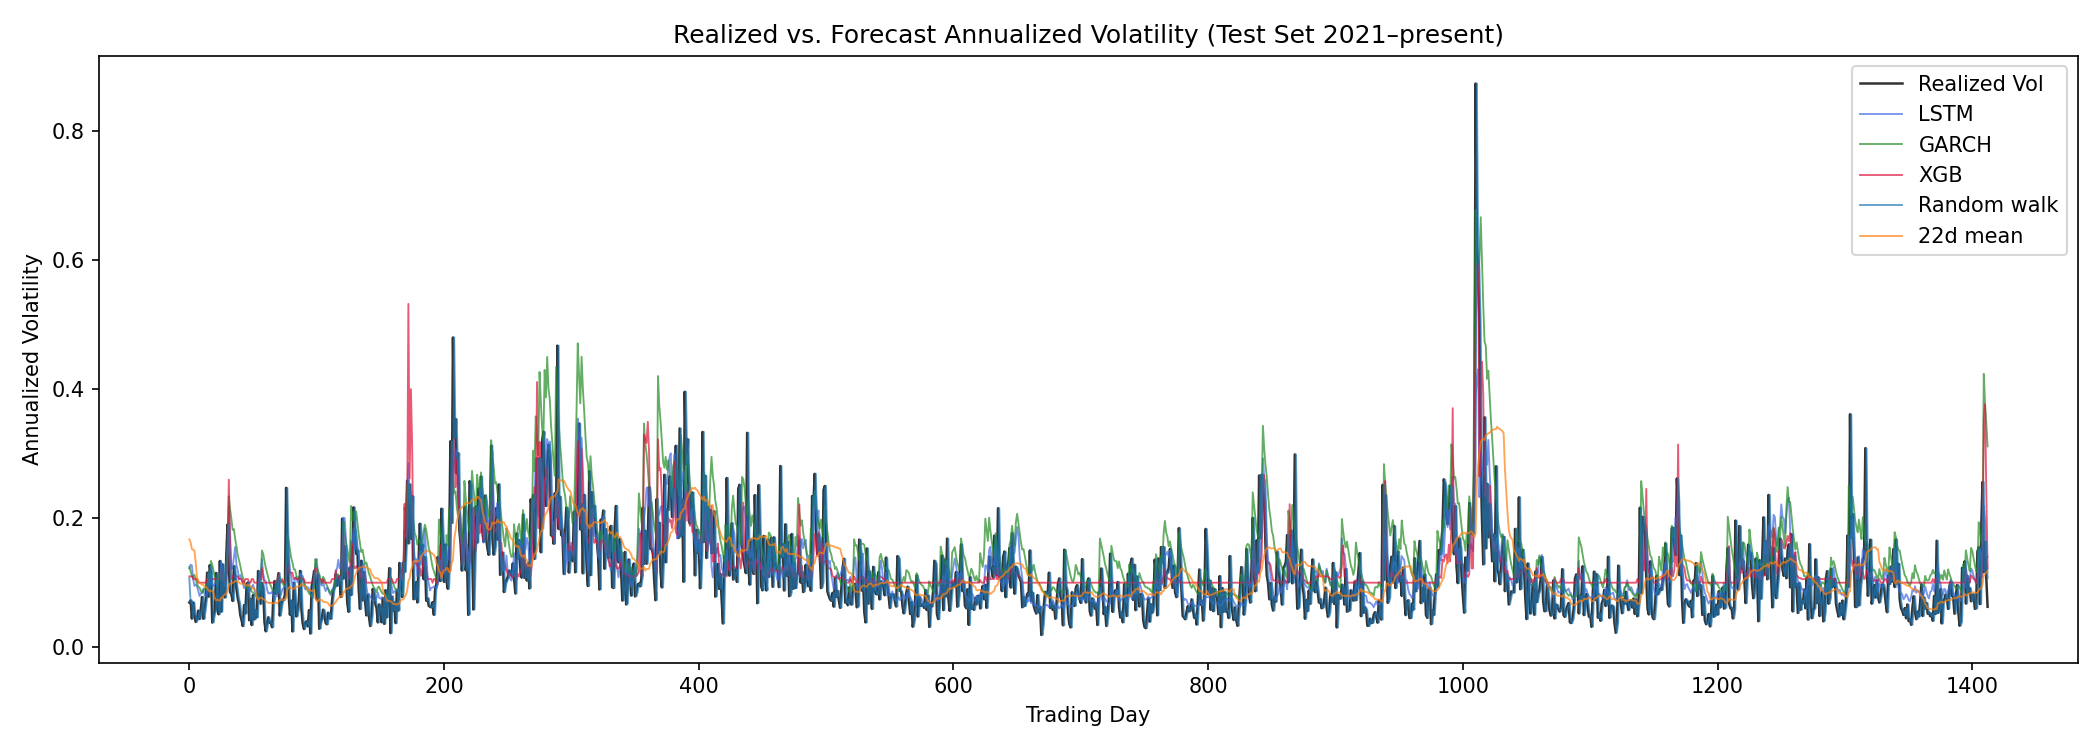
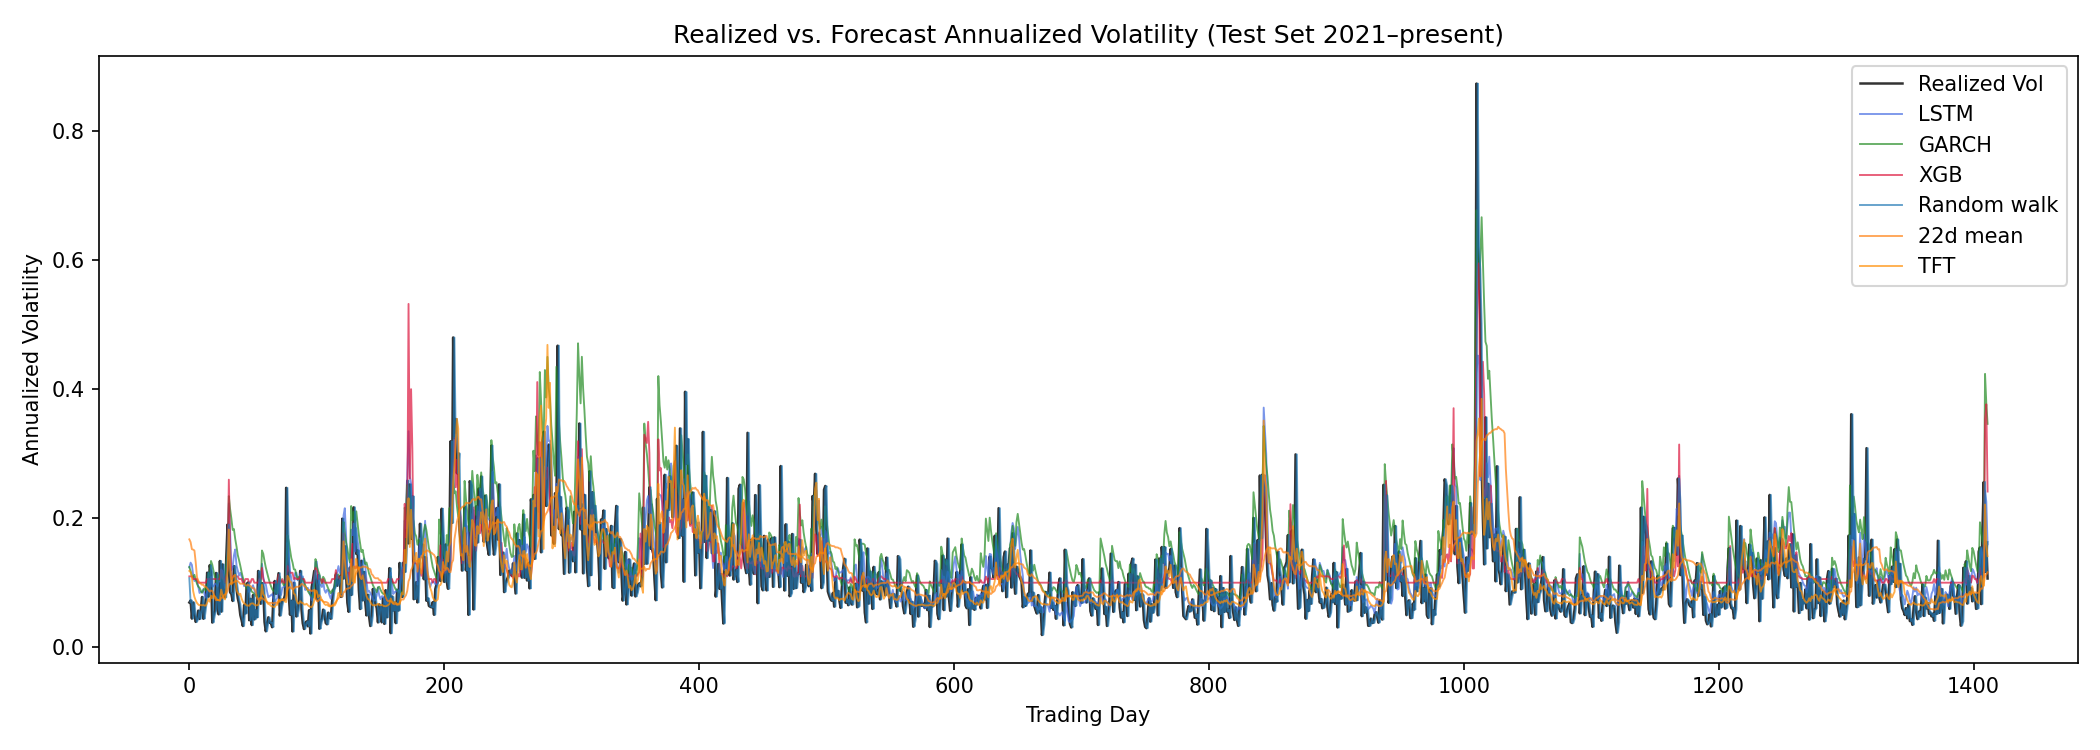
Regenerate results with the TFT and five LSTM seeds
LSTM QLIKE 0.3092 (seed 0), TFT 0.3347 with the lowest RMSE, XGB 0.3639.
Across five seeds the LSTM ranges from 0.3013 to 0.3091 and every seed
beats XGB with p below 0.001. The earlier 0.3061 came from an unstable
setup and is replaced.

Claude-Session: https://claude.ai/code/session_013eQQvXsKQ5ZxUZGJ1ycCVm

diff --git a/README.md b/README.md
@@ -60,68 +60,49 @@ All features are lagged 1 day. Target: next-day Garman-Klass daily variance.
 
 ## Test-Set Results
 
-From `python -m training.train_lstm` then `python -m evaluation.evaluate`, run on 2026-11-11 (CPU, one training run, early stopping at epoch 90). Test set: 1,413 common trading days, 2021-03-30 to 2026-11-11, after the 2010 to 2018 training and 2019 to 2020 validation periods. Target: the Garman-Klass variance of day t, forecast from information through t-1. Lower is better. Source files: `outputs/model_comparison.csv`, `outputs/regime_performance.csv`, `outputs/training_log_lstm.csv`.
+From `python -m training.run_all` then `python -m evaluation.evaluate outputs/checkpoints/tft_best.ckpt`, run on 2026-11-11 on CPU. Both networks use seed 0; the LSTM early-stopped at epoch 29 and the TFT at epoch 36. Test set: 1,412 common trading days, 2021-03-30 to 2026-11-10, after the 2010 to 2018 training and 2019 to 2020 validation periods. Target: the Garman-Klass variance of day t, forecast from information through t-1. Lower is better. Source files: `outputs/model_comparison.csv`, `outputs/regime_performance.csv`, `outputs/training_log_lstm.csv`.
 
 The random walk (yesterday's Garman-Klass variance) and the 22-day mean are naive benchmarks on the same information set. DM is the Diebold-Mariano statistic on QLIKE losses; negative means the row's model has lower loss than the comparison model.
 
 | Model | QLIKE | RMSE (log-vol) | DM vs GARCH | p | DM vs random walk | p |
 |-------|-------|----------------|-------------|---|-------------------|---|
-| LSTM | **0.3061** | **0.4253** | -9.70 | 0.0000 | -8.10 | 0.0000 |
-| GARCH | 0.4097 | 0.5584 | 0.00 | 1.0000 | -4.97 | 0.0000 |
-| XGB | 0.3640 | 0.4824 | -4.01 | 0.0001 | -6.24 | 0.0000 |
-| Random walk | 0.6356 | 0.4774 | 4.97 | 0.0000 | 0.00 | 1.0000 |
-| 22d mean | 0.4399 | 0.4834 | 1.23 | 0.2186 | -4.55 | 0.0000 |
+| LSTM | **0.3092** | 0.4251 | -8.08 | 0.0000 | -8.01 | 0.0000 |
+| TFT | 0.3347 | **0.3943** | -4.06 | 0.0001 | -7.73 | 0.0000 |
+| XGB | 0.3639 | 0.4822 | -3.92 | 0.0001 | -6.25 | 0.0000 |
+| GARCH | 0.4084 | 0.5570 | 0.00 | 1.0000 | -5.00 | 0.0000 |
+| 22d mean | 0.4398 | 0.4833 | 1.28 | 0.2001 | -4.55 | 0.0000 |
+| Random walk | 0.6358 | 0.4773 | 5.00 | 0.0000 | 0.00 | 1.0000 |
 
-The TFT is not included: its evaluation path is not date-aligned (see Evaluation notes), so it was not trained for this run.
+### Seed stability (LSTM)
+
+From `python -m evaluation.seed_study`, which retrains the LSTM with seeds 0 to 4 and scores every run on the same 1,413 test days (2021-03-30 to 2026-11-11; one more day than above, because the TFT is not in this comparison). Source: `outputs/lstm_seed_study.csv`.
+
+| | QLIKE |
+|---|---|
+| LSTM, mean of 5 seeds | 0.3042 |
+| LSTM, best and worst seed | 0.3013 to 0.3091 |
+| LSTM, standard deviation across seeds | 0.0030 |
+| XGB (best non-LSTM model on these days) | 0.3636 |
+
+Every seed beats XGBoost on QLIKE with a Diebold-Mariano p-value below 0.001 (DM statistics -4.57 to -6.12).
 
 **Reading this honestly.**
-- The LSTM has the lowest QLIKE and RMSE, and beats GARCH, XGBoost and both naive benchmarks with Diebold-Mariano p-values below 0.001.
+- The LSTM has the lowest QLIKE, and the seed study shows the edge is not a lucky draw: the spread across five seeds (0.0030) is small next to the gap to XGBoost (about 0.06).
+- The TFT is second on QLIKE but has the lowest RMSE, so the ranking of the two networks depends on the loss. The TFT was trained once, with one seed, and no test of LSTM against TFT was run.
 - GARCH beats the random walk on QLIKE but loses to it on RMSE. GARCH forecasts close-to-close variance while the target is range-based, so it is on a different scale; that is why the naive rows are in the table.
-- This is one training run with one seed. The size of the LSTM edge across seeds has not been measured.
 
 ## Regime-Conditional QLIKE
 
-VIX at the prior close below 20 (973 days) or above 25 (181 days); days in between are in neither column.
+VIX at the prior close below 20 (972 days) or above 25 (181 days); days in between are in neither column.
 
 | Model | Low-vol QLIKE (VIX < 20) | High-vol QLIKE (VIX > 25) |
 |-------|--------------------------|---------------------------|
-| LSTM | 0.3206 | 0.2557 |
-| GARCH | 0.4307 | 0.3766 |
-| XGB | 0.3857 | 0.2913 |
-| Random walk | 0.6707 | 0.5555 |
-| 22d mean | 0.4176 | 0.5555 |
-
----
-
-## Project Structure
-
-```
-dl-volatility/
-├── data/
-│   ├── features.py        # Garman-Klass vol, VIX, log returns, volume z-score
-│   └── dataset.py         # PyTorch Dataset, DataLoaders, TFT-compatible splits
-├── models/
-│   ├── lstm_model.py      # 2-layer LSTM forecaster
-│   ├── tft_model.py       # TFT via pytorch-forecasting
-│   └── baseline.py        # GJR-GARCH + XGBoost wrappers
-├── training/
-│   ├── losses.py          # QLIKE loss (PyTorch + NumPy)
-│   ├── train_lstm.py      # LSTM train loop, early stopping, checkpointing
-│   ├── train_tft.py       # TFT Lightning trainer
-│   └── run_all.py         # End-to-end runner
-├── evaluation/
-│   ├── metrics.py         # QLIKE, RMSE, DM test (HLN), regime split
-│   └── evaluate.py        # Full evaluation pipeline + plots
-├── outputs/
-│   ├── checkpoints/       # Best model weights
-│   ├── model_comparison.csv
-│   ├── regime_performance.csv
-│   ├── forecast_comparison.png
-│   └── tft_attention_heatmap.png
-├── notebooks/
-│   └── dl_volatility_analysis.ipynb
-└── requirements.txt
-```
+| LSTM | 0.3290 | 0.2353 |
+| TFT | 0.3575 | 0.2580 |
+| XGB | 0.3855 | 0.2913 |
+| GARCH | 0.4288 | 0.3766 |
+| 22d mean | 0.4175 | 0.5555 |
+| Random walk | 0.6709 | 0.5555 |
 
 ---
 
@@ -138,6 +119,9 @@ python -m training.run_all --skip-tft
 
 # Evaluation only (if checkpoints exist)
 python -m evaluation.evaluate outputs/checkpoints/tft_best.ckpt
+
+# LSTM seed stability (retrains 5 times)
+python -m evaluation.seed_study
 ```
 
 ---
@@ -148,4 +132,6 @@ python -m evaluation.evaluate outputs/checkpoints/tft_best.ckpt
 - **GARCH baseline fixed.** `predict_garch` previously returned *training-period* forecasts (arch ignores `start` beyond the fitted sample). It now fixes the train+val parameters and filters through the test returns, so forecasts are genuinely out of sample.
 - **Date-based comparison.** `evaluate.py` used to truncate LSTM, GARCH and XGBoost forecasts by position, which compared forecasts with the wrong days (the LSTM starts 60 days into the test set, XGBoost a few days in). Models are now aligned on common dates.
 - **TFT scaler** is fit on the training split only.
-- **Results regenerated on 2026-11-11** after these fixes and two more: VIX is now read correctly from newer yfinance (it returns a one-column DataFrame, which previously raised KeyError), and downloads are cached per run so evaluation makes two Yahoo requests instead of four. The TFT evaluation path is still experimental (it is not date-aligned).
+- **TFT evaluation fixed (2026-11-11).** Validation and test sets were built with `predict=True`, which keeps one window per series: early stopping watched a single sample and the test produced a single forecast. The model was also fitted on the validation years it was then selected on. It now fits on training rows only, validates and tests on one rolling window per day, and returns forecasts indexed by date. Because a TFT encoder only sees rows before the decoder step, its target is lagged one row so it uses the same information as the LSTM (features through day t-1 for the variance of day t).
+- **LSTM output scale fixed (2026-11-11).** The head ended in Softplus, which starts near 0.7 while daily variance is near 1e-4. Training was unstable: in a five-seed check, four seeds never improved on epoch 1, and three of them scored worse than the random walk. The head now predicts log variance, with its bias starting at the log of the mean training variance. The earlier single-run result (QLIKE 0.3061) came from the one seed in five that escaped; the numbers above replace it.
+- **Results regenerated on 2026-11-11** after these fixes and two more: VIX is now read correctly from newer yfinance (it returns a one-column DataFrame, which previously raised KeyError), and downloads are cached per run so evaluation makes two Yahoo requests instead of four.
